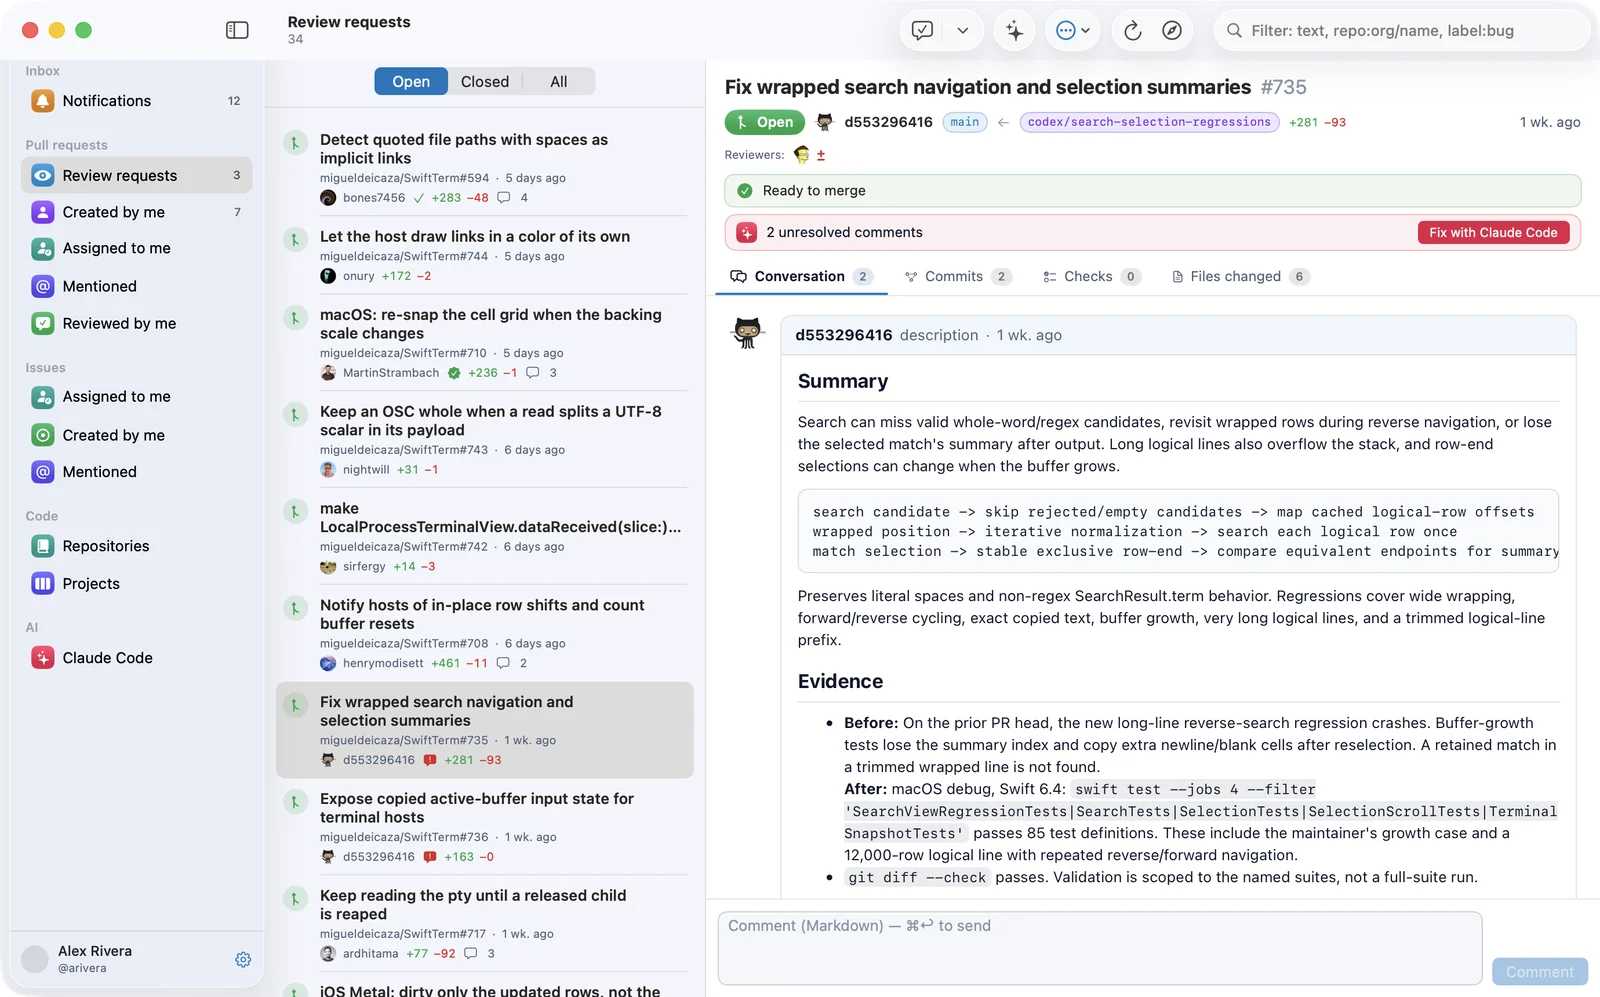
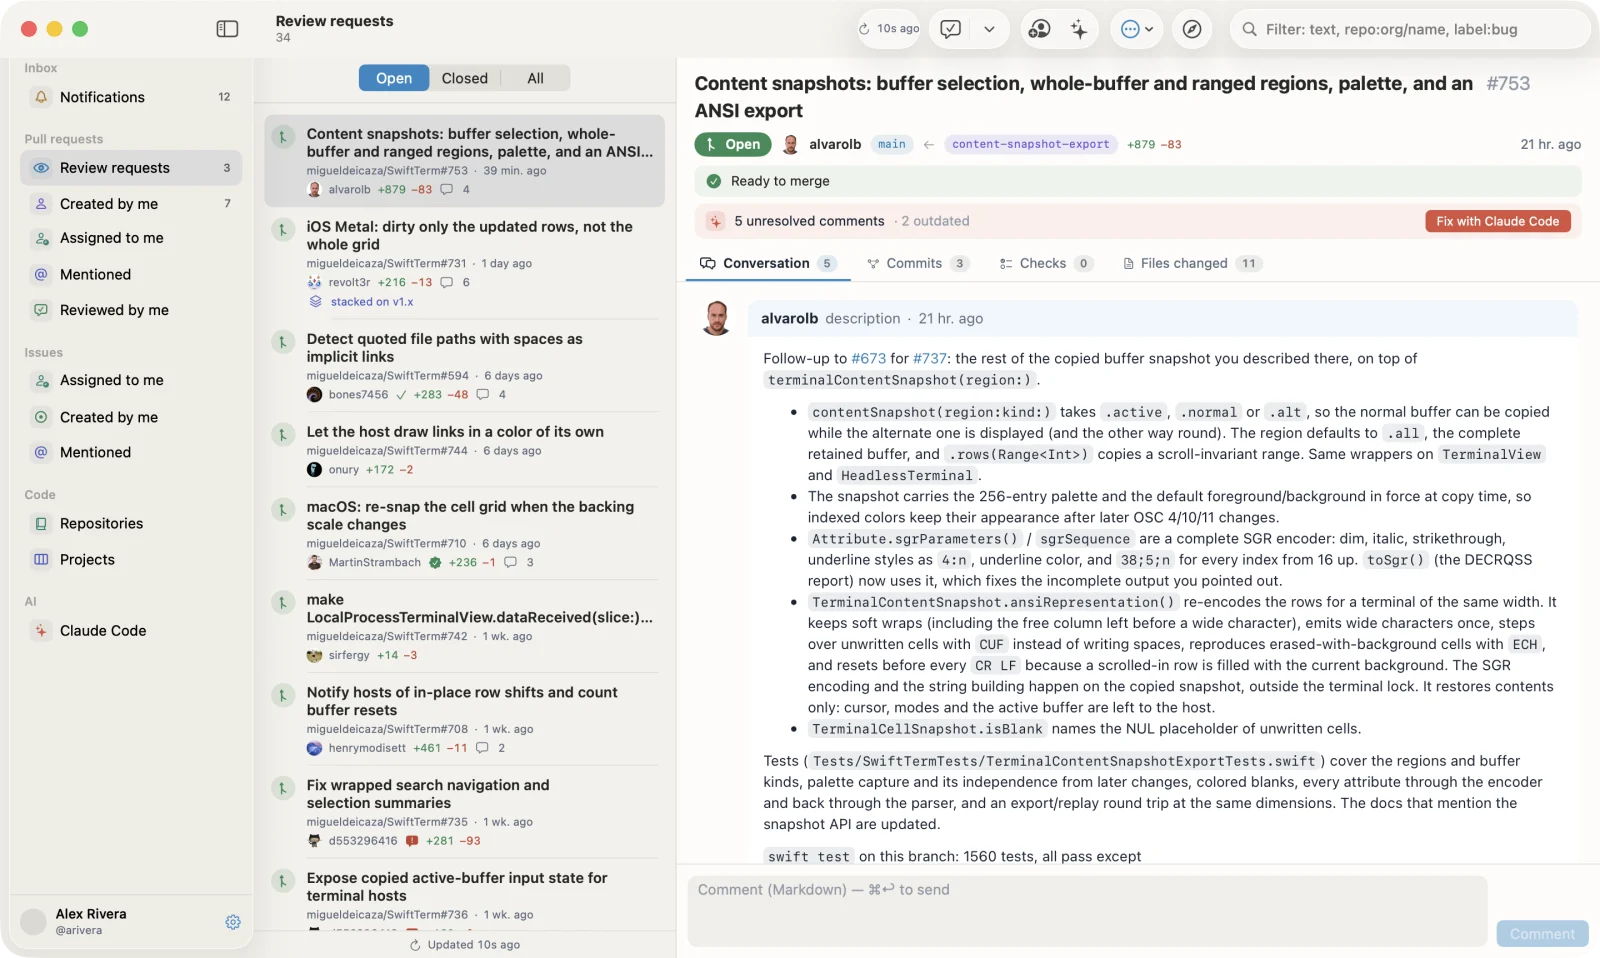
Pull to refresh settles if a gesture end is missed, site demo blocks page scroll while pulling, new screenshots

diff --git a/docs/demo.js b/docs/demo.js
@@ -200,7 +200,7 @@
       if (s.h) { h += '<div class="d-h">' + s.h + "</div>"; return; }
       var on = state.section === s.id ? " on" : "";
       var c = s.count ? '<span class="d-c' + (s.id === "review" ? " hot" : "") + '">' + s.count + "</span>" : "";
-      h += '<button class="d-it' + on + '" data-sec="' + s.id + '"><span class="d-tile" style="background:' + s.color + '">' + icon(s.icon, "ti") + "</span><span>" + s.title + "</span>" + c + "</button>";
+      h += '<button class="d-it' + on + '" data-sec="' + s.id + '"><span class="d-tile" style="--c:' + s.color + '">' + icon(s.icon, "ti") + "</span><span>" + s.title + "</span>" + c + "</button>";
     });
     h += '<div class="d-me">' + avatar("arivera") + '<div><b>Alex Rivera</b><small>@arivera</small></div></div></div>';
     return h;
@@ -233,16 +233,16 @@
       });
     } else if (state.section === "repos") {
       REPOS.forEach(function (r, i) {
-        h += '<button class="d-row' + (state.detail === "repo" && state.repo === i ? " on" : "") + '" data-repo="' + i + '"><span class="d-tile sm" style="background:#2dd4bf">' + icon("book", "ti") + '</span><span class="d-rt"><b>' + r[0] + "</b><small>" + r[3] + '</small><small><i class="d-lang" style="background:' + r[2] + '"></i>' + r[1] + " · ★ " + r[4] + "</small></span></button>";
+        h += '<button class="d-row' + (state.detail === "repo" && state.repo === i ? " on" : "") + '" data-repo="' + i + '"><span class="d-tile sm" style="--c:#2dd4bf">' + icon("book", "ti") + '</span><span class="d-rt"><b>' + r[0] + "</b><small>" + r[3] + '</small><small><i class="d-lang" style="background:' + r[2] + '"></i>' + r[1] + " · ★ " + r[4] + "</small></span></button>";
       });
     } else if (state.section === "projects") {
-      h += '<button class="d-row on"><span class="d-tile sm" style="background:#6366f1">' + icon("board", "ti") + '</span><span class="d-rt"><b>Q4 roadmap</b><small>12 items · 3 columns</small></span></button>';
+      h += '<button class="d-row on"><span class="d-tile sm" style="--c:#6366f1">' + icon("board", "ti") + '</span><span class="d-rt"><b>Q4 roadmap</b><small>12 items · 3 columns</small></span></button>';
     } else if (state.section === "claude") {
       h += '<div class="d-sub">Open</div>';
       h += '<button class="d-row on"><span class="d-sdot" style="background:' + (state.chat && state.chat.waiting ? "#e8b44c" : "#5dbe8a") + '"></span><span class="d-rt"><b>Cancel stale searches</b><small>web-app · <i class="d-chip v">feat/search-debounce</i></small></span></button>';
       h += '<div class="d-sub">Projects</div>';
       [["web-app", "#5bb8ec", 6], ["api", "#9d8cf0", 12], ["ios", "#fb923c", 3]].forEach(function (p) {
-        h += '<div class="d-proj"><span class="d-tile sm" style="background:' + p[1] + '">' + icon("folder", "ti") + "</span><b>" + p[0] + "</b><small>" + p[2] + "</small></div>";
+        h += '<div class="d-proj"><span class="d-tile sm" style="--c:' + p[1] + '">' + icon("folder", "ti") + "</span><b>" + p[0] + "</b><small>" + p[2] + "</small></div>";
       });
     }
     return h + "</div>";
@@ -268,7 +268,7 @@
     if (state.section === "claude") return '<div class="d-det">' + back + chatView() + "</div>";
     if (state.detail === "repo") return '<div class="d-det">' + back + repoView() + "</div>";
     if (state.section === "projects") return '<div class="d-det">' + back + boardView() + "</div>";
-    if (state.detail !== "pr") return '<div class="d-det d-placeholder"><span class="d-tile lg" style="background:var(--violet)">' + icon("pr", "ti") + "</span><p>Select a pull request</p></div>";
+    if (state.detail !== "pr") return '<div class="d-det d-placeholder"><span class="d-tile lg" style="--c:var(--violet)">' + icon("pr", "ti") + "</span><p>Select a pull request</p></div>";
     var p = PRS[state.pr];
     var col = stateColor(p.state);
     var h = '<div class="d-det">' + back + '<div class="d-head"><h3>' + esc(p.title) + " <span>#" + state.pr + '</span></h3><div class="d-meta"><span class="d-pill" style="background:' + col + '">' + icon(stateIcon(p.state), "ti") + p.state.charAt(0).toUpperCase() + p.state.slice(1) + "</span>" + avatar(p.author) + "<b>" + p.author + '</b><i class="d-chip s">' + p.base + '</i><span class="d-arrow">←</span><i class="d-chip v">' + p.head + '</i><i class="g">+' + p.add + '</i><i class="r">−' + p.del + '</i><span class="d-ago">' + p.ago + " ago</span></div>";
@@ -320,7 +320,7 @@
 
   function repoView() {
     var r = REPOS[state.repo];
-    return '<div class="d-repo"><div class="d-card d-rhead"><span class="d-tile md" style="background:#2dd4bf">' + icon("book", "ti") + "</span><div><b>" + r[0] + "</b><small>" + r[3] + '</small><div class="d-meta"><i class="d-chip a">★ ' + r[4] + '</i><i class="d-chip s">main</i></div></div></div><div class="d-tree">' +
+    return '<div class="d-repo"><div class="d-card d-rhead"><span class="d-tile md" style="--c:#2dd4bf">' + icon("book", "ti") + "</span><div><b>" + r[0] + "</b><small>" + r[3] + '</small><div class="d-meta"><i class="d-chip a">★ ' + r[4] + '</i><i class="d-chip s">main</i></div></div></div><div class="d-tree">' +
       ["src", "tests", ".github"].map(function (d) { return '<div class="d-tr">' + icon("folder", "ti s") + d + "</div>"; }).join("") +
       ["README.md", "package.json", "tsconfig.json"].map(function (d) { return '<div class="d-tr">' + icon("file", "ti dim") + d + "</div>"; }).join("") +
       '</div><div class="d-card d-readme"><h4>' + r[0].split("/")[1] + "</h4><p>" + r[3] + ". Run <code>make dev</code> to start it locally.</p></div></div>";
@@ -346,7 +346,7 @@
   function chatView() {
     var c = state.chat || { step: 0, items: [] };
     var h = '<div class="d-chat"><div class="d-ctab"><span class="d-ct">' + icon("chat", "ti") + 'Cancel stale searches <small>web-app</small></span><span class="d-cplus">+</span><span class="d-cmodel">opus</span></div><div class="d-msgs" id="d-msgs">';
-    if (!c.items.length) h += '<div class="d-welcome"><span class="d-tile lg" style="background:var(--coral)">' + icon("spark", "ti") + '</span><b>Claude Code</b><p>Open a PR and press <em>Fix with Claude Code</em>, or start here.</p><button class="d-start" data-fix>' + icon("spark", "ti") + "Fix review on #482</button></div>";
+    if (!c.items.length) h += '<div class="d-welcome"><span class="d-tile lg" style="--c:var(--coral)">' + icon("spark", "ti") + '</span><b>Claude Code</b><p>Open a PR and press <em>Fix with Claude Code</em>, or start here.</p><button class="d-start" data-fix>' + icon("spark", "ti") + "Fix review on #482</button></div>";
     c.items.forEach(function (it, i) { h += i === c.fresh ? it.replace('<div class="', '<div class="new ') : it; });
     if (c.busy) h += '<div class="d-working"><span class="d-spin"></span>Working…</div>';
     h += '</div><form class="d-ccomp" data-compose><input placeholder="Ask Claude or describe a task…" aria-label="Message"><div class="d-crow"><span>Accept edits ▾</span><span>Opus ▾</span><span>effort ▾</span><span class="d-ring"></span><button type="submit" aria-label="Send">' + icon("send", "ti") + "</button></div></form></div>";
@@ -510,14 +510,19 @@
   }
   root.addEventListener("wheel", function (e) {
     var list = e.target.closest && e.target.closest(".d-list");
-    if (!list || refreshing || e.deltaMode !== 0 || Math.abs(e.deltaY) > 60) return;
-    if (list.scrollTop > 0 || e.deltaY >= 0) { if (pulling && e.deltaY > 0) { pull = Math.max(0, pull - e.deltaY); setPull(pull); } return; }
+    if (!list || e.deltaMode !== 0 || Math.abs(e.deltaY) > 60) return;
+    if (refreshing) { if (list.scrollTop <= 0 && e.deltaY < 0) e.preventDefault(); return; }
+    if (list.scrollTop > 0 || e.deltaY >= 0) {
+      if (pulling && e.deltaY > 0) { e.preventDefault(); pull = Math.max(0, pull - e.deltaY); setPull(pull); }
+      return;
+    }
+    e.preventDefault();
     pulling = true;
     pull += -e.deltaY * 0.8;
     setPull(pull);
     clearTimeout(pullTimer);
     pullTimer = setTimeout(finishPull, 140);
-  }, { passive: true });
+  }, { passive: false });
 
   setInterval(function () {
     var ago = root.querySelector("[data-ago]");

diff --git a/docs/index.html b/docs/index.html
@@ -164,7 +164,7 @@ footer a:hover{color:var(--text)}
 
     <div class="shot reveal">
       <div id="demo" class="demo" role="application" aria-label="Interactive Shipyard demo">
-        <noscript><img src="img/pr-files.webp" width="1600" height="997" alt="Shipyard showing a pull request's changed files"></noscript>
+        <noscript><img src="img/pr-files.webp" width="1600" height="958" alt="Shipyard showing a pull request's changed files"></noscript>
       </div>
       <p class="demo-hint"><i></i>Live demo — click around, then try “Fix with Claude Code”</p>
     </div>
@@ -228,7 +228,7 @@ footer a:hover{color:var(--text)}
       </ul>
     </div>
     <div class="claude-shot reveal">
-      <img src="img/claude.webp" width="1600" height="997" loading="lazy" alt="Claude Code chat in Shipyard editing a file and asking permission to run tests, with the changed files on the right">
+      <img src="img/claude.webp" width="1600" height="958" loading="lazy" alt="Claude Code chat in Shipyard editing a file and asking permission to run tests, with the changed files on the right">
     </div>
   </div>
 </section>
@@ -241,10 +241,10 @@ footer a:hover{color:var(--text)}
       <p class="sub">Every screen is a real screenshot of Shipyard running on a public repository.</p>
     </div>
     <div class="gallery">
-      <figure class="reveal wide"><img src="img/pr-files.webp" width="1600" height="997" loading="lazy" alt="Changed files of a pull request with a fast diff viewer"><figcaption><b>Diffs that keep up.</b> A native diff viewer that scrolls thousands of lines smoothly, with a file list and viewed checkmarks.</figcaption></figure>
-      <figure class="reveal"><img src="img/pr-conversation.webp" width="1600" height="997" loading="lazy" alt="Pull request conversation with merge status and unresolved comments"><figcaption><b>The whole conversation.</b> Reviews, threads and checks, plus one click to hand unresolved comments to Claude Code.</figcaption></figure>
-      <figure class="reveal"><img src="img/repo.webp" width="1600" height="997" loading="lazy" alt="Repository browser with file tree and rendered README"><figcaption><b>Browse any repository.</b> File tree, README and code with syntax highlighting.</figcaption></figure>
-      <figure class="reveal wide"><img src="img/light.webp" width="1600" height="997" loading="lazy" alt="Shipyard in light mode"><figcaption><b>Light or dark.</b> The Shipyard theme comes in both, or switch to the native macOS look in Settings.</figcaption></figure>
+      <figure class="reveal wide"><img src="img/pr-files.webp" width="1600" height="958" loading="lazy" alt="Changed files of a pull request with a fast diff viewer"><figcaption><b>Diffs that keep up.</b> A native diff viewer that scrolls thousands of lines smoothly, with a file list and viewed checkmarks.</figcaption></figure>
+      <figure class="reveal"><img src="img/pr-conversation.webp" width="1600" height="958" loading="lazy" alt="Pull request conversation with merge status and unresolved comments"><figcaption><b>The whole conversation.</b> Reviews, threads and checks, plus one click to hand unresolved comments to Claude Code.</figcaption></figure>
+      <figure class="reveal"><img src="img/repo.webp" width="1600" height="958" loading="lazy" alt="Repository browser with file tree and rendered README"><figcaption><b>Browse any repository.</b> File tree, README and code with syntax highlighting.</figcaption></figure>
+      <figure class="reveal wide"><img src="img/light.webp" width="1600" height="958" loading="lazy" alt="Shipyard in light mode"><figcaption><b>Light or dark.</b> The Shipyard theme comes in both, or switch to the native macOS look in Settings.</figcaption></figure>
     </div>
   </div>
 </section>

diff --git a/Sources/Shipyard/App/RootView.swift b/Sources/Shipyard/App/RootView.swift
@@ -124,25 +124,25 @@ struct SidebarView: View {
         @Bindable var app = app
         List(selection: $app.section) {
             Section("Inbox") {
-                SidebarRow(title: "Notifications", icon: "bell.fill", color: .syMuted)
+                SidebarRow(title: "Notifications", icon: "bell.fill", color: .syAmber)
                     .badge(app.unreadCount)
                     .tag(SidebarSection.notifications)
             }
             Section("Pull requests") {
                 ForEach(PRFilter.allCases) { f in
-                    SidebarRow(title: f.title, icon: f.tileIcon, color: .syMuted)
+                    SidebarRow(title: f.title, icon: f.tileIcon, color: f.tint)
                         .badge(f == .reviewRequested ? app.reviewRequestCount : (f == .mine ? app.myPRCount : 0))
                         .tag(SidebarSection.prs(f))
                 }
             }
             Section("Issues") {
                 ForEach(IssueFilter.allCases) { f in
-                    SidebarRow(title: f.title, icon: f.tileIcon, color: .syMuted).tag(SidebarSection.issues(f))
+                    SidebarRow(title: f.title, icon: f.tileIcon, color: f.tint).tag(SidebarSection.issues(f))
                 }
             }
             Section("Code") {
-                SidebarRow(title: "Repositories", icon: "book.closed.fill", color: .syMuted).tag(SidebarSection.repos)
-                SidebarRow(title: "Projects", icon: "rectangle.split.3x1.fill", color: .syMuted).tag(SidebarSection.projects)
+                SidebarRow(title: "Repositories", icon: "book.closed.fill", color: .syTeal).tag(SidebarSection.repos)
+                SidebarRow(title: "Projects", icon: "rectangle.split.3x1.fill", color: .syIndigo).tag(SidebarSection.projects)
             }
             Section("AI") {
                 SidebarRow(title: "Claude Code", icon: "sparkles", color: .syCoral)

diff --git a/Sources/Shipyard/Shared/Refresh.swift b/Sources/Shipyard/Shared/Refresh.swift
@@ -338,6 +338,7 @@ private struct ScrollPullProbe: NSViewRepresentable {
         var onTrigger: () -> Void = {}
         private var monitor: Any?
         private var gesture = PullGesture()
+        private var settle: DispatchWorkItem?
 
         var attached: Bool { scrollView != nil || webView != nil }
 
@@ -345,7 +346,7 @@ private struct ScrollPullProbe: NSViewRepresentable {
             guard web !== webView else { return }
             detach()
             webView = web
-            web.onPull = { [weak self] in self?.onPull($0) }
+            web.onPull = { [weak self] in self?.report($0) }
             web.onTrigger = { [weak self] in self?.onTrigger() }
         }
 
@@ -383,8 +384,20 @@ private struct ScrollPullProbe: NSViewRepresentable {
             let point = scroll.convert(inWindow, from: nil)
             guard scroll.bounds.contains(point) else { return }
             let r = gesture.handle(event, atTop: atTop)
-            if let p = r.pull { onPull(p) }
+            if let p = r.pull { report(p) }
             if r.fire { onTrigger() }
+        }
+
+        private func report(_ value: CGFloat) {
+            onPull(value)
+            settle?.cancel()
+            guard value > 0 else { return }
+            let item = DispatchWorkItem { [weak self] in
+                self?.gesture = PullGesture()
+                self?.onPull(0)
+            }
+            settle = item
+            DispatchQueue.main.asyncAfter(deadline: .now() + 0.35, execute: item)
         }
     }
 }

diff --git a/docs/demo.css b/docs/demo.css
@@ -11,7 +11,7 @@
 .d-it{display:flex!important;align-items:center;gap:9px;width:100%;padding:5px 8px!important;border-radius:7px;white-space:nowrap;transition:background .15s}
 .d-it:hover{background:rgba(255,255,255,.05)}
 .d-it.on{background:rgba(255,255,255,.11)}
-.d-tile{width:20px;height:20px;border-radius:6px;display:grid;place-items:center;flex:none;color:#fff;box-shadow:inset 0 1px 0 rgba(255,255,255,.25)}
+.d-tile{width:20px;height:20px;border-radius:6px;display:grid;place-items:center;flex:none;color:var(--c,#fff);background:color-mix(in srgb,var(--c,#8693a8) 14%,transparent)}
 .d-tile .ti{width:12px;height:12px;stroke-width:2.4}
 .d-tile.sm{width:22px;height:22px}.d-tile.md{width:36px;height:36px;border-radius:9px}.d-tile.md .ti{width:18px;height:18px}
 .d-tile.lg{width:52px;height:52px;border-radius:14px}.d-tile.lg .ti{width:26px;height:26px}
@@ -180,9 +180,8 @@
   .d-ago{display:none}
 }
 
-.d-it .d-tile{background:rgba(255,255,255,.04)!important;color:var(--t2)}
+.d-it .d-tile{background:rgba(255,255,255,.04);box-shadow:inset 0 1px 0 rgba(255,255,255,.25)}
 .d-it.on .d-tile{color:var(--t1)}
-.d-it[data-sec=claude] .d-tile{color:#ee6f5f!important}
 .d-row.d-in{animation:dRowIn .7s cubic-bezier(.22,1,.36,1) both}
 .d-row.d-new{animation:dRowIn .7s cubic-bezier(.22,1,.36,1) both,dFresh 2.4s ease-out both}
 @keyframes dRowIn{from{opacity:0;transform:translateX(60px)}to{opacity:1;transform:none}}
